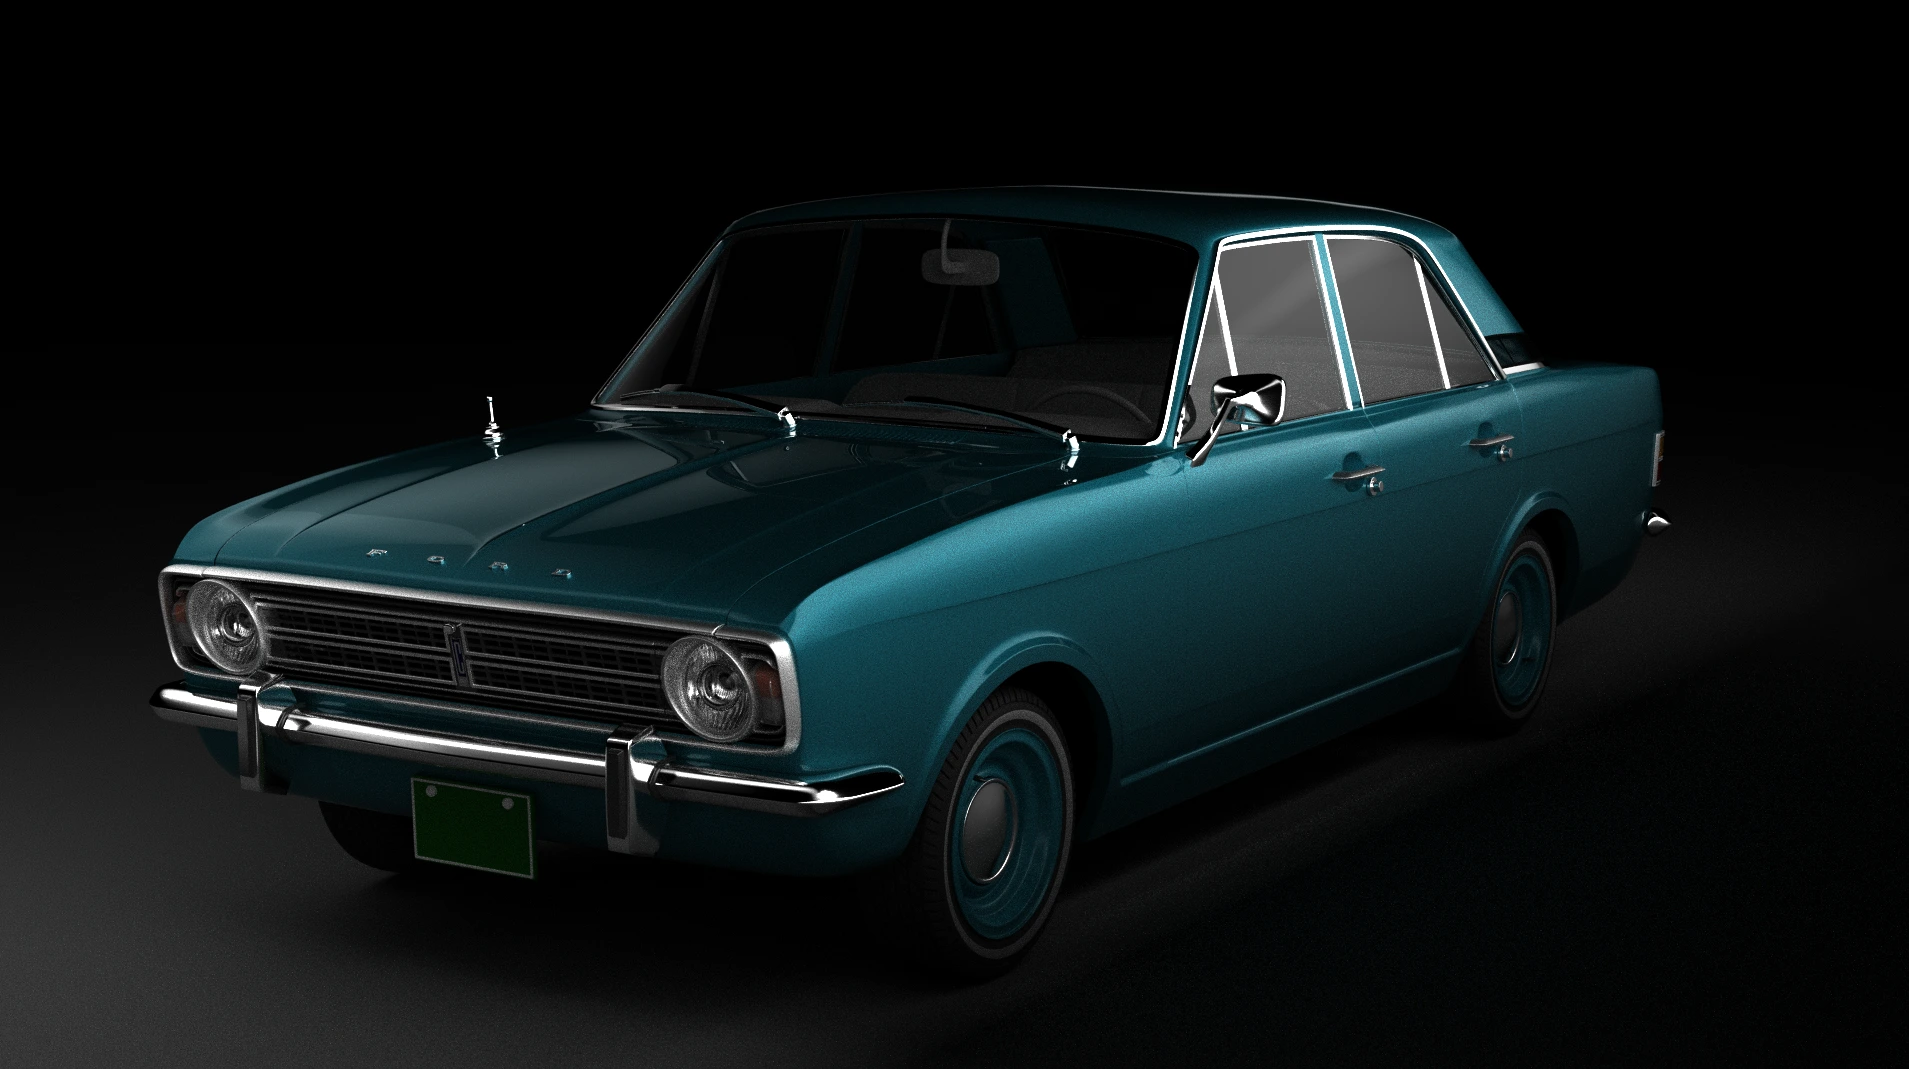
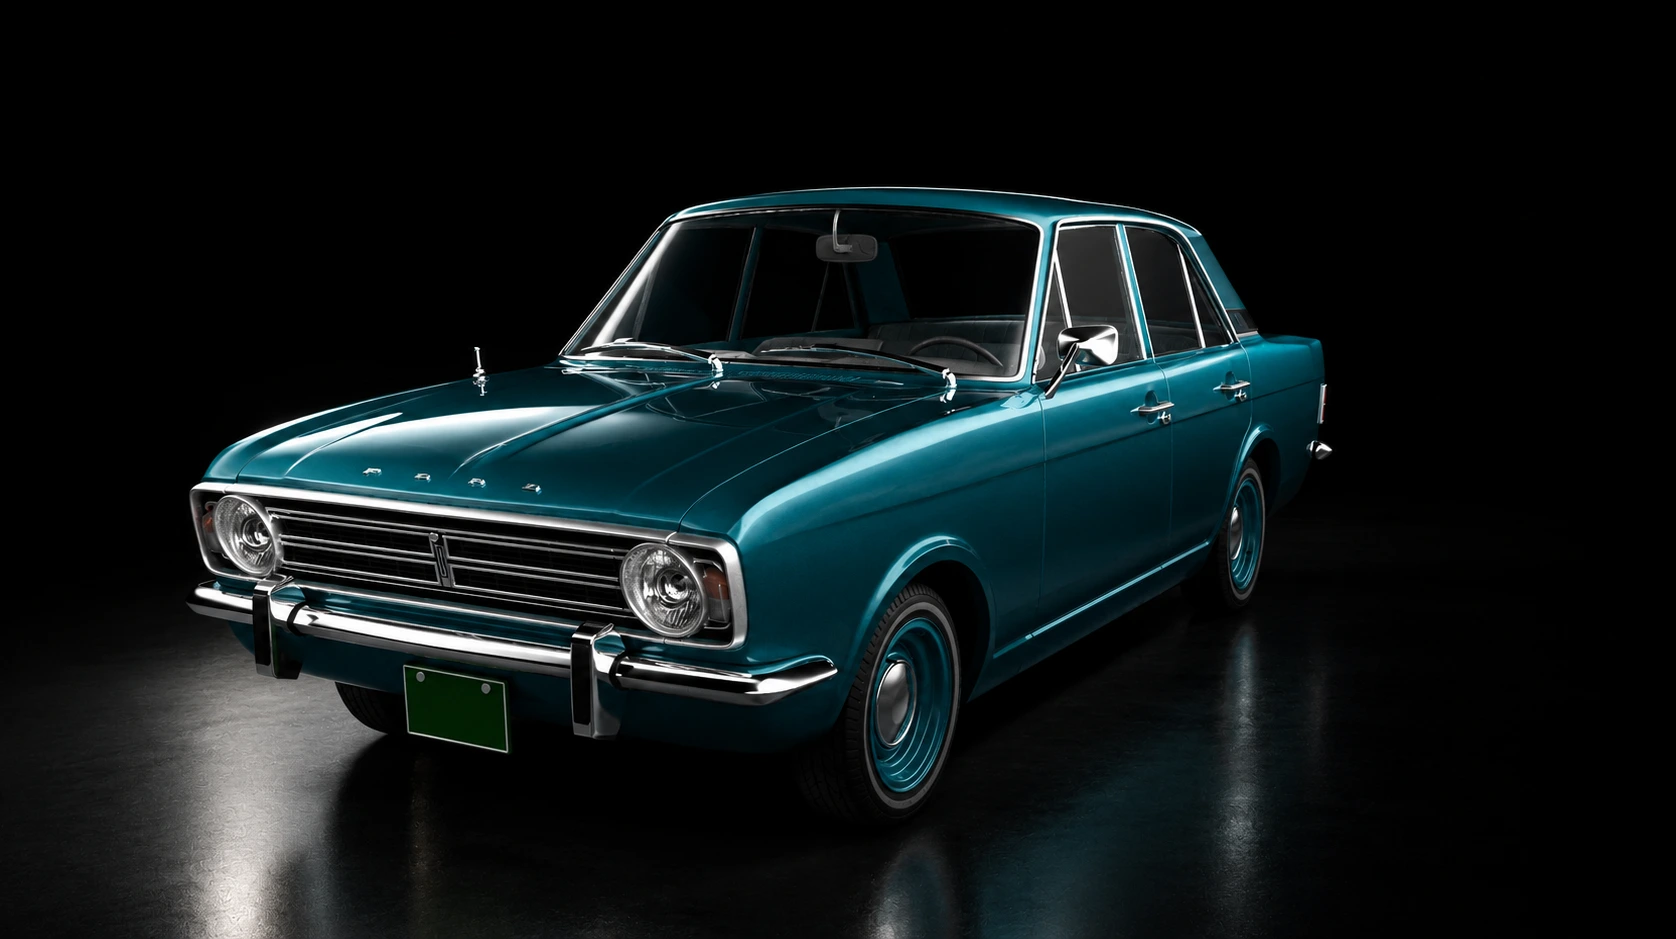
Update portfolio: Add new projects, thumbnails, and CSS adjustments

Changed region(s): [[0.0, 0.1544, 0.8687, 1.0], [0.4964, 0.6794, 0.7757, 1.0]]

diff --git a/projects/project3/project3.html b/projects/project3/project3.html
@@ -64,7 +64,7 @@
     
     <div class="video-wrapper">
         <!-- 유튜브 주소 파라미터 중복 오타(?si=...와 ?rel=...) 수정 완료 -->
-        <iframe width="1920" height="1080" src="https://www.youtube.com/embed/vl0Efo-tRKg?rel=0&modestbranding=1" 
+        <iframe width="1920" height="1080" src="https://www.youtube.com/embed/vTzpbuWSvTA?si=mctd_79tZsWSWU3o" 
                 title="YouTube video player" 
                 frameborder="0" 
                 allow="accelerometer; autoplay; clipboard-write; encrypted-media; gyroscope; picture-in-picture; web-share" 
@@ -83,7 +83,7 @@
     
 
         <p style="color: #8aa4b7; margin-bottom: 20px;">
-        Product Modeling , shading & texturing , Freelance
+        Product Modeling , shading & texturing , Freelance , AI Generated
         </p>
 
         <h3>Tools Used</h3>
@@ -93,9 +93,9 @@
 
         <h3>Description</h3>
         <p style="color: #aaa; line-height: 1.8;">
-        회사 업무와 병행하며 주말에 잠을 줄이며 약 3주 동안 제작한 개인 외주 작업입니다. 영상 속 자동차의 모델링과 텍스쳐링까지가 저의 역할이었습니다.  Maya의 폴리곤 모델링 방식을 사용해 모델링부터 쉐이딩, 텍스처링까지 직접 진행했습니다.
+        Maya의 폴리곤 모델링 방식을 사용해 모델링부터 쉐이딩, 텍스처링까지 직접 진행했습니다. 모델링 제작 후 렌더링 이미지를 참조하여  영상의 카메라 연출과 스토리를 구성한 후 프롬프트를 AI로 생성하여 Comfy UI의 Seedance 엔진을 활용해 영상을 제작했습니다.
         <br><br>현대의 자동차처럼 복잡하고 디테일한 형태였다면 짧은 기간 안에 모델링하기 어려웠겠지만, 이번 작업은 비교적 심플한 쉐입의 클래식카였기 때문에 모델링을 수월하게 진행할 수 있었습니다. 대신 별도의 도면 없이 사진만을 참고해 제작해야 했기 때문에, 여러 사진을 비교하며 실제 코티나의 형태와 최대한 일치시키는 것에 집중했습니다.
-        <br><br>3주라는 기간 안에 모델링부터 쉐이딩, 텍스처링까지 작업을 마무리한 개인 외주 작업입니다.
+        
         </p>
 
         <!-- ★ 사진 갤러리 섹션 시작 ★ -->
